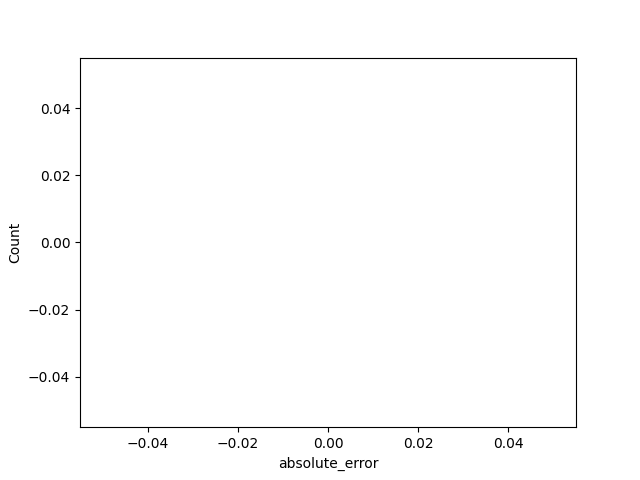
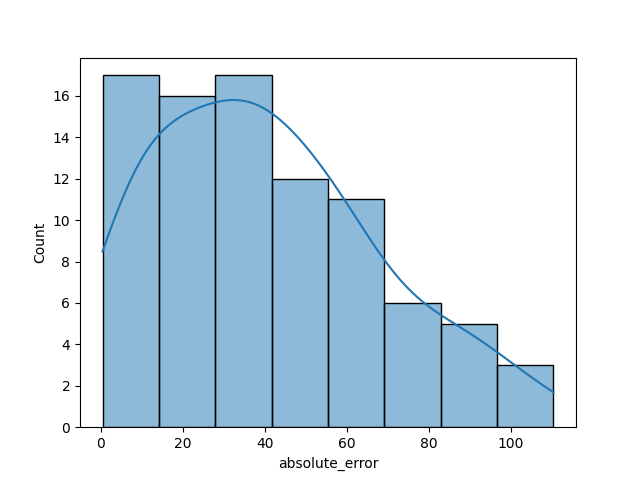
Fix

diff --git a/features/src/features.py b/features/src/features.py
@@ -8,43 +8,46 @@ from sklearn.datasets import load_diabetes
 
 # Создаём бесконечный цикл для отправки сообщений в очередь
 while True:
-    # Загружаем датасет о диабете
-    X, y = load_diabetes(return_X_y=True)
-    # Формируем случайный индекс строки
-    random_row = np.random.randint(0, X.shape[0]-1)
+    try:
+        # Загружаем датасет о диабете
+        X, y = load_diabetes(return_X_y=True)
+        # Формируем случайный индекс строки
+        random_row = np.random.randint(0, X.shape[0]-1)
+ 
+        # Создаём подключение по адресу rabbitmq:
+        connection = pika.BlockingConnection(pika.ConnectionParameters('rabbitmq'))
+        channel = connection.channel()
 
-    # Создаём подключение по адресу rabbitmq:
-    connection = pika.BlockingConnection(pika.ConnectionParameters('rabbitmq'))
-    channel = connection.channel()
+        message_id = datetime.timestamp(datetime.now())
+        message_y_true = {
+            'id': message_id,
+            'body': y[random_row]
+        }
+        message_features = {
+            'id': message_id,
+            'body': list(X[random_row])
+        }
 
-    message_id = datetime.timestamp(datetime.now())
-    message_y_true = {
-        'id': message_id,
-        'body': y[random_row]
-    }
-    message_features = {
-        'id': message_id,
-        'body': list(X[random_row])
-    }
+        # Создаём очередь y_true
+        channel.queue_declare(queue='y_true')
+        # Создаём очередь features
+        channel.queue_declare(queue='features')
+ 
+        # Публикуем сообщение в очередь y_true
+        channel.basic_publish(exchange='',
+                            routing_key='y_true',
+                            body=json.dumps(message_y_true))
+        print('Сообщение с правильным ответом отправлено в очередь')
+ 
+        # Публикуем сообщение в очередь features
+        channel.basic_publish(exchange='',
+                            routing_key='features',
+                            body=json.dumps(message_features))
+        print('Сообщение с вектором признаков отправлено в очередь')
+ 
+        # Закрываем подключение
+        connection.close()
 
-    # Создаём очередь y_true
-    channel.queue_declare(queue='y_true')
-    # Создаём очередь features
-    channel.queue_declare(queue='features')
-
-    # Публикуем сообщение в очередь y_true
-    channel.basic_publish(exchange='',
-                        routing_key='y_true',
-                        body=json.dumps(message_y_true))
-    print('Сообщение с правильным ответом отправлено в очередь')
-
-    # Публикуем сообщение в очередь features
-    channel.basic_publish(exchange='',
-                        routing_key='features',
-                        body=json.dumps(message_features))
-    print('Сообщение с вектором признаков отправлено в очередь')
-
-    # Закрываем подключение
-    connection.close()
-
-    time.sleep(10)
+        time.sleep(5)
+    except:
+        print('Не удалось подключиться к очереди')

diff --git a/metric/src/metric.py b/metric/src/metric.py
@@ -7,12 +7,12 @@ try:
     # Создаём подключение к серверу на локальном хосте
     connection = pika.BlockingConnection(pika.ConnectionParameters(host='rabbitmq'))
     channel = connection.channel()
-   
+
     # Объявляем очередь y_true
     channel.queue_declare(queue='y_true')
     # Объявляем очередь y_pred
     channel.queue_declare(queue='y_pred')
- 
+
     # Создаём функцию callback для обработки данных из очереди
     def callback(ch, method, properties, body):
         message = json.loads(body)
@@ -21,23 +21,23 @@ try:
         answer_string = f'Из очереди {method.routing_key} получено значение {value}'
         with open('./logs/labels_log.txt', 'a') as log:
             log.write(answer_string +'\n')
-
-        data = pd.read_csv('./logs/metric_log.csv', index_col='id')
-        if message['id'] not in data.index:
+        
+        data = pd.read_csv('./logs/metric_log.csv')
+        if message['id'] not in data['id'].values:
             new_entry = pd.DataFrame(
                 data={
-                    'y_true': value if method.routing_key == 'y_true' else pd.NA,
-                    'y_pred': value if method.routing_key == 'y_pred' else pd.NA,
+                    'id': message['id'],
+                    'y_true': [value if method.routing_key == 'y_true' else pd.NA],
+                    'y_pred': [value if method.routing_key == 'y_pred' else pd.NA],
                     'absolute_error': pd.NA
                 },
-                index=message['id']
             )
-            data = pd.concat(data, new_entry)
+            data = pd.concat([data, new_entry])
         else:
-            data.loc[message['id']][method.routing_key] = value
-            ae = abs(data.loc[message['id']]['y_true'] - data.loc[message['id']]['y_pred'])
-            data.loc[message['id']]['absolute_error'] = ae
-        data.to_csv('./logs/metrics_log.csv')
+            data.loc[data['id'] == message['id'], method.routing_key] = value
+            ae = abs(data.loc[data['id'] == message['id'], 'y_true'] - data.loc[data['id'] == message['id'], 'y_pred'])
+            data.loc[data['id'] == message['id'], 'absolute_error'] = ae
+        data.to_csv('./logs/metric_log.csv', index=False)
 
     # Извлекаем сообщение из очереди y_true
     channel.basic_consume(
@@ -51,7 +51,7 @@ try:
         on_message_callback=callback,
         auto_ack=True
     )
- 
+
     # Запускаем режим ожидания прихода сообщений
     print('...Ожидание сообщений, для выхода нажмите CTRL+C')
     channel.start_consuming()

diff --git a/plot/src/plot.py b/plot/src/plot.py
@@ -6,9 +6,10 @@ import seaborn as sns
 
 while True:
     data = pd.read_csv('./logs/metric_log.csv', index_col='id')
-    sns.histplot(data['absolute_error'], kde=True)
+    sns.histplot(data['absolute_error'], stat='count', kde=True)
     plt.xlabel('absolute_error')
     plt.ylabel('Count')
     plt.savefig('./logs/error_distribution.png')
+    plt.close()
 
     time.sleep(10)
